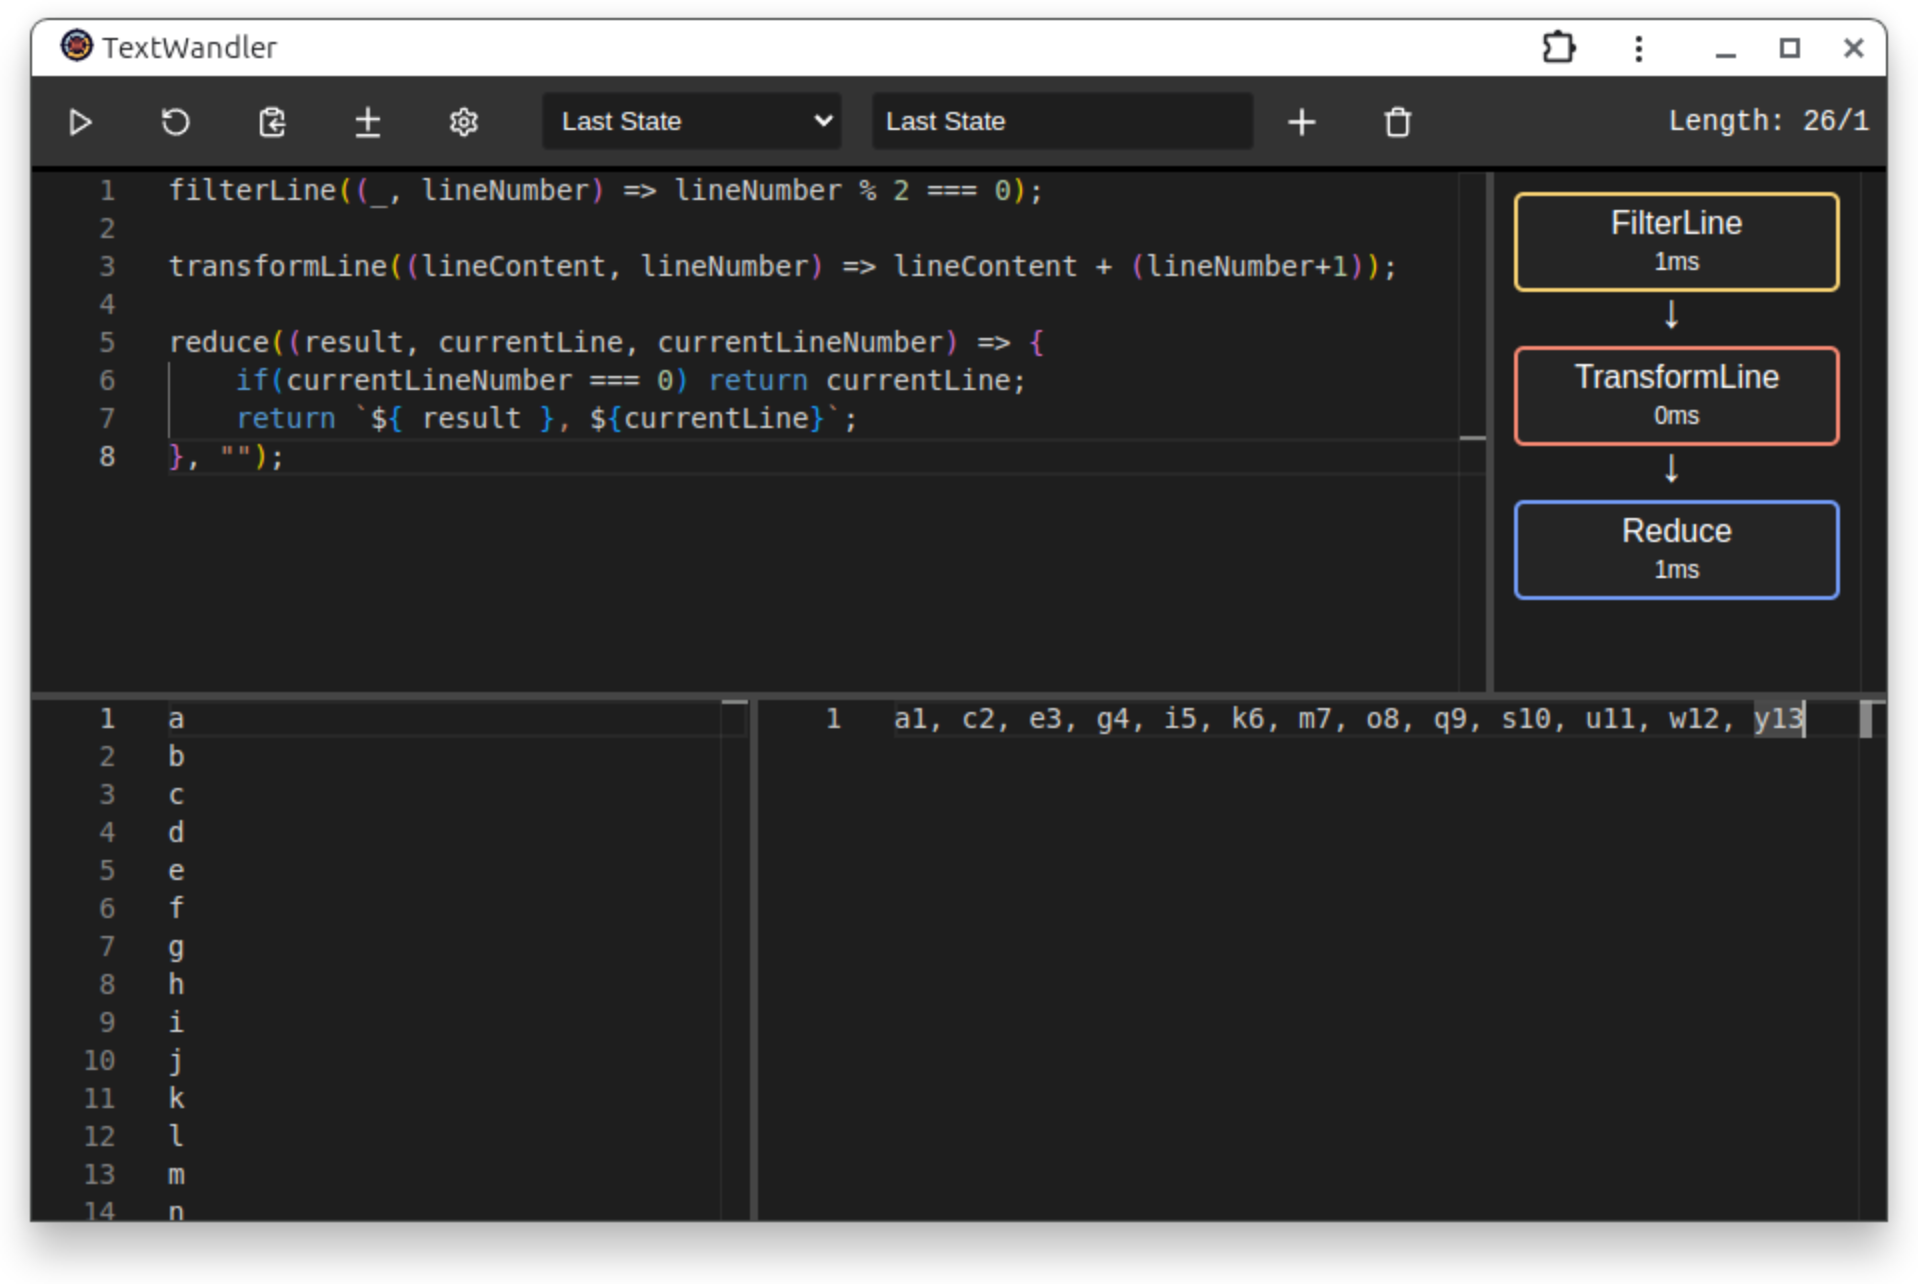
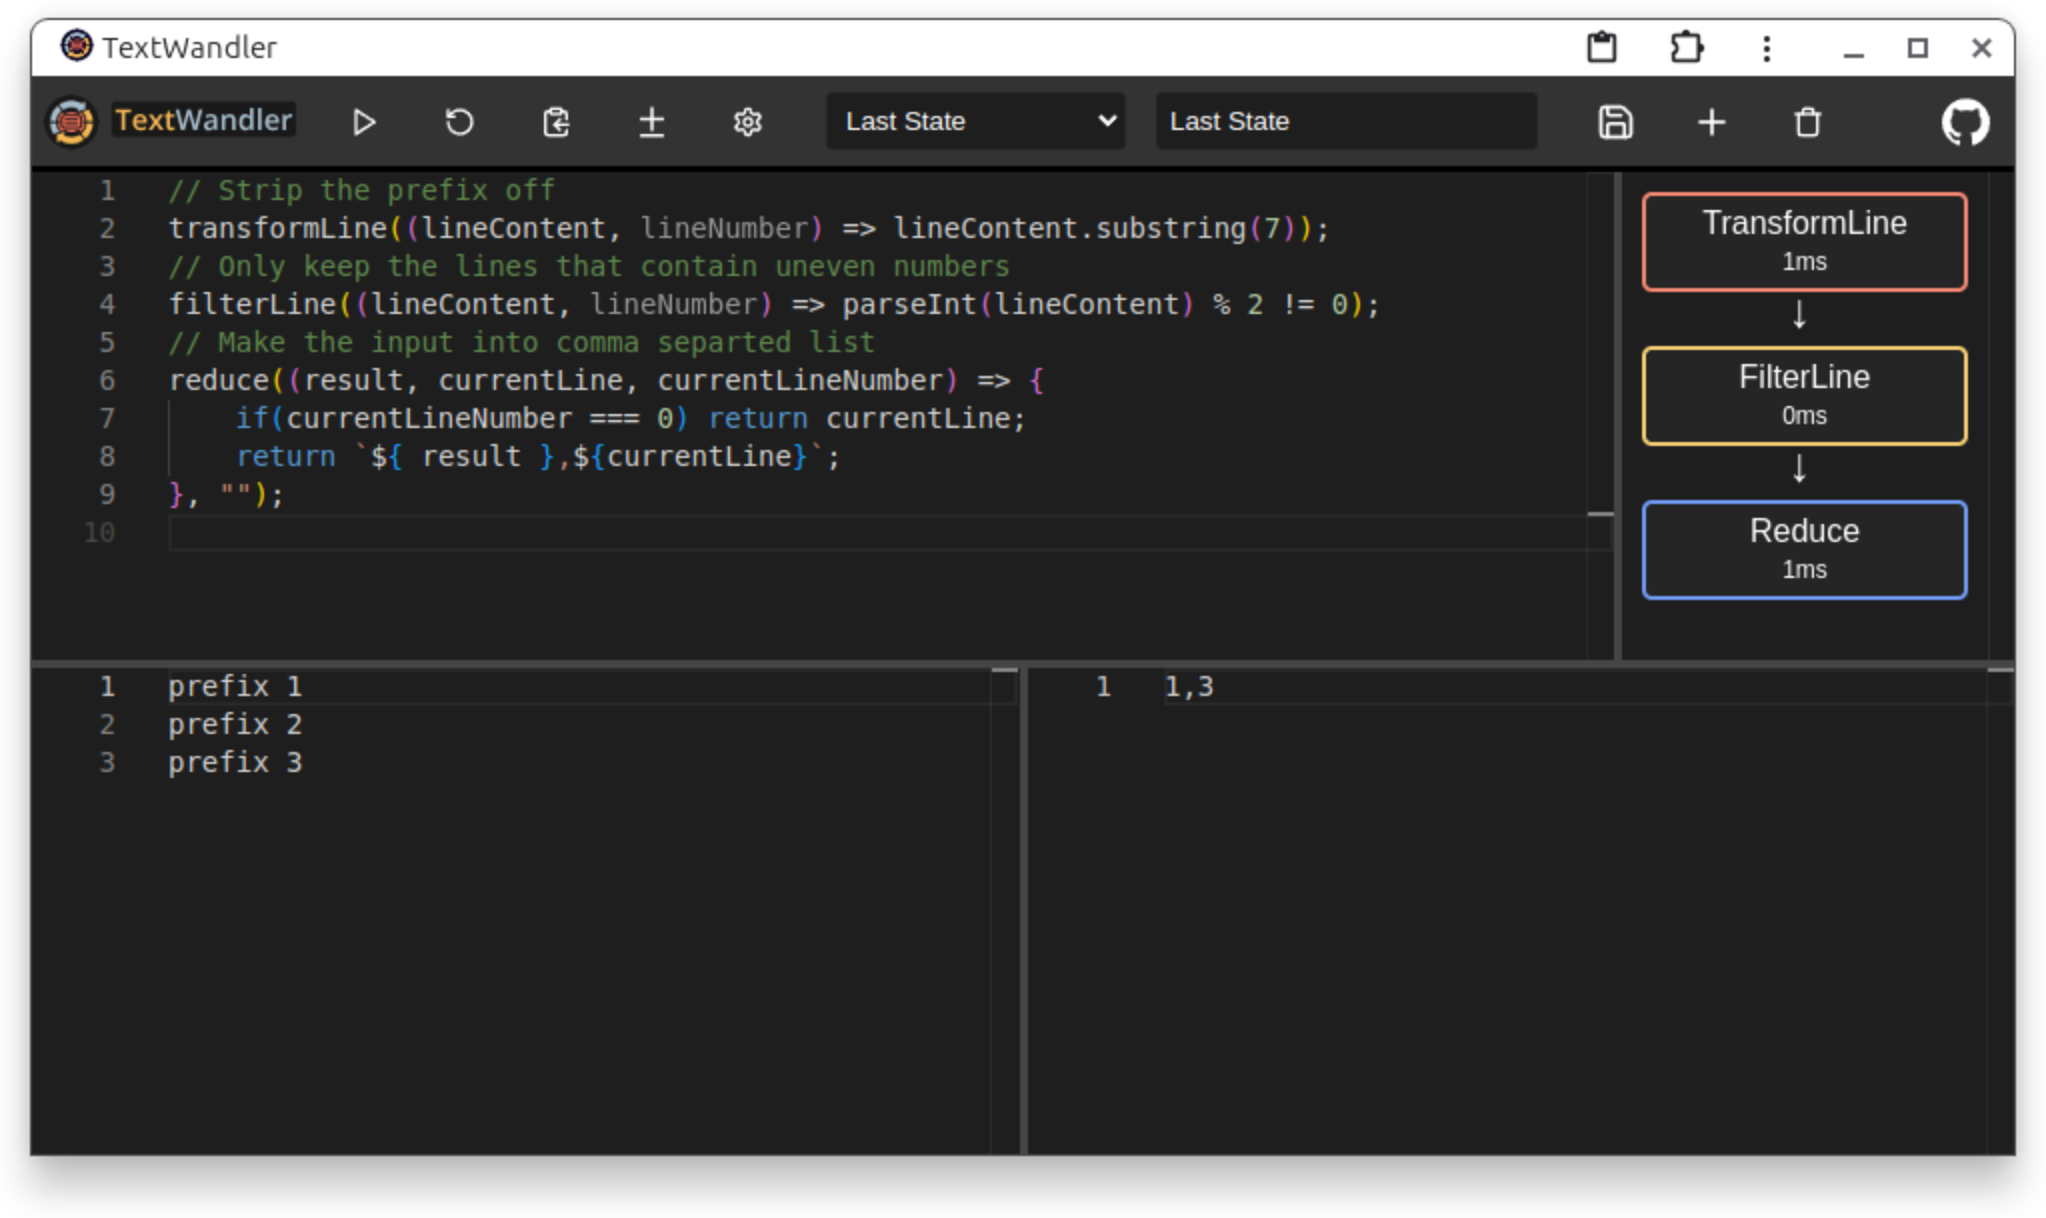
chore: update readme

Changed region(s): [[0.0, 0.0, 0.9844, 0.9672], [0.0308, 0.7488, 0.0615, 0.78], [0.0308, 0.6864, 0.0615, 0.7176]]

diff --git a/src/monaco-extra-libs/action-functions.d.ts b/src/monaco-extra-libs/action-functions.d.ts
@@ -62,14 +62,14 @@ declare function reduce(
  * @param {string} currentLine The content of the line as a String
  * @param {number} currentLineNumber The number of the line in the text output of the previous action
  * @param {string[]} inputLinesArray The original array of lines output by the previous action
- * @returns boolean
+ * @returns any
  */
 declare function CallbackReduce(
     result: any,
     currentLine: string,
     currentLineNumber: number,
     inputLinesArray: string[]
-): boolean;
+): any;
 
 /**
  * Replaces the output of the previous action with a new string that is generated by the callback

diff --git a/README.md b/README.md
@@ -1,8 +1,164 @@
-![TextWandler Logo](./images/logo-text-1280.png)
+[![TextWandler Logo](./images/logo-text-1280.png)](https://oliverthelen.github.io/textwandler/)
 
-A crude local editor for transforming text input via JavaScript code. The editor is for desktop use
-and might not work the best on mobile.
+A crude local editor for transforming text input via JavaScript code.
+You give it some text input, define how to manipulate the input via chainable functions that can be utilized alongside your own javascript code.
+In the end the result will be written to the output editor.
+
+The editor is for desktop use and might not work the best on mobile.
 Can be accessed online [here](https://oliverthelen.github.io/textwandler/).
 The editor can be installed as a PWA for local usage.
 
-![TextWandler Logo](./images/screenshot.png)
+[![TextWandler Logo](./images/screenshot.png)](https://oliverthelen.github.io/textwandler/)
+
+You can toggle between viewing the input and output as simple text or in a diff view between the two.
+
+[![TextWandler Logo](./images/screenshot_diff.png)](https://oliverthelen.github.io/textwandler/)
+
+
+## Available functions
+
+These are the integrated functions to interact with the input content and generate the final output.
+
+### filterLine
+
+Iterates over every line of the input and only keeps those lines for which the callback returns true.
+
+```js
+function filterLine(callback: (lineContent: string, lineNumber: number) => boolean): void
+```
+
+```js
+// Keeps every second line from the input
+filterLine((lineContent, lineNumber) => lineNumber % 2 === 0);
+```
+
+### transformLine
+
+Iterates over every line of the input and puts the result of the callback into the output in its place.
+
+```js
+function transformLine(callback: (lineContent: string, lineNumber: number) => string): void
+```
+
+```js
+// Prefixes every line with the lineNumber
+transformLine((lineContent, lineNumber) => `${ lineNumber } ${ lineContent }`);
+```
+
+### reduce
+
+Iterates over every line and gives it to the provided callback. In the end the result of the last callback execution is stringified and written to the output.
+
+```js
+function reduce(
+    callback: (
+        result: any,
+        currentLine: string,
+        currentLineNumber: number,
+        inputLinesArray: string[]
+    ) => any,
+    initialValue?: any   
+): void
+```
+
+```js
+// Parses every line from the input as a number and calculates the sum as the output
+reduce((result, line) => {
+    if(parseInt(line)) { result += parseInt(line); }
+    return result;
+}, 0);
+```
+
+### setValue
+
+Allows to set the whole output to the result of the callback which gets the results of the previous function chain as the input.
+
+```js
+function setValue((input: string) => string): void
+```
+
+```js
+setValue(() => 'set the output to this string\nnext line');
+```
+
+### jsonParse
+
+Parses the input as a json object or array and allows the manipulation in the callback.
+Result of the callback must be a json object or array again.
+
+```js
+function jsonParse((input: object | array) => object | array): void
+```
+
+```js
+// Assumes as input an object like: {"a": 123}
+jsonParse((json) => { json.a++; return json; });
+// Output will be: 
+// {
+//    "a": 124
+// }
+```
+
+## Chaining of functions
+
+The result of the last function that is executed in the code editor will be written to the output.
+Only the first function that is executed reads the original input every subsequent functions reads the input from the previous function.
+
+As an example look at the following input for the code editor and see how it transforms the text input.
+
+```js
+// Strip the prefix off
+transformLine((lineContent, lineNumber) => lineContent.substring(7));
+// Only keep the lines that contain uneven numbers
+filterLine((lineContent, lineNumber) => parseInt(lineContent) % 2 != 0);
+// Transform the input into a comma separated list
+reduce((result, currentLine, currentLineNumber) => {
+    if(currentLineNumber === 0) return currentLine;
+    return `${ result },${currentLine}`;
+}, "");
+```
+
+Initial input
+
+```
+prefix 1
+prefix 2
+prefix 3
+```
+
+After executing the `transformLine`
+
+```
+1
+2
+3
+```
+
+After executing the `filterLine`
+
+```
+1
+3
+```
+
+After executing the `reduce`
+
+```
+1,3
+```
+
+
+## Additional imports
+
+### lodash
+
+It is possible to use lodash functions in your code as the full lodash is available.
+
+```js
+transformLine((lineContent) => _.snakeCase(lineContent));
+```
+
+
+
+
+
